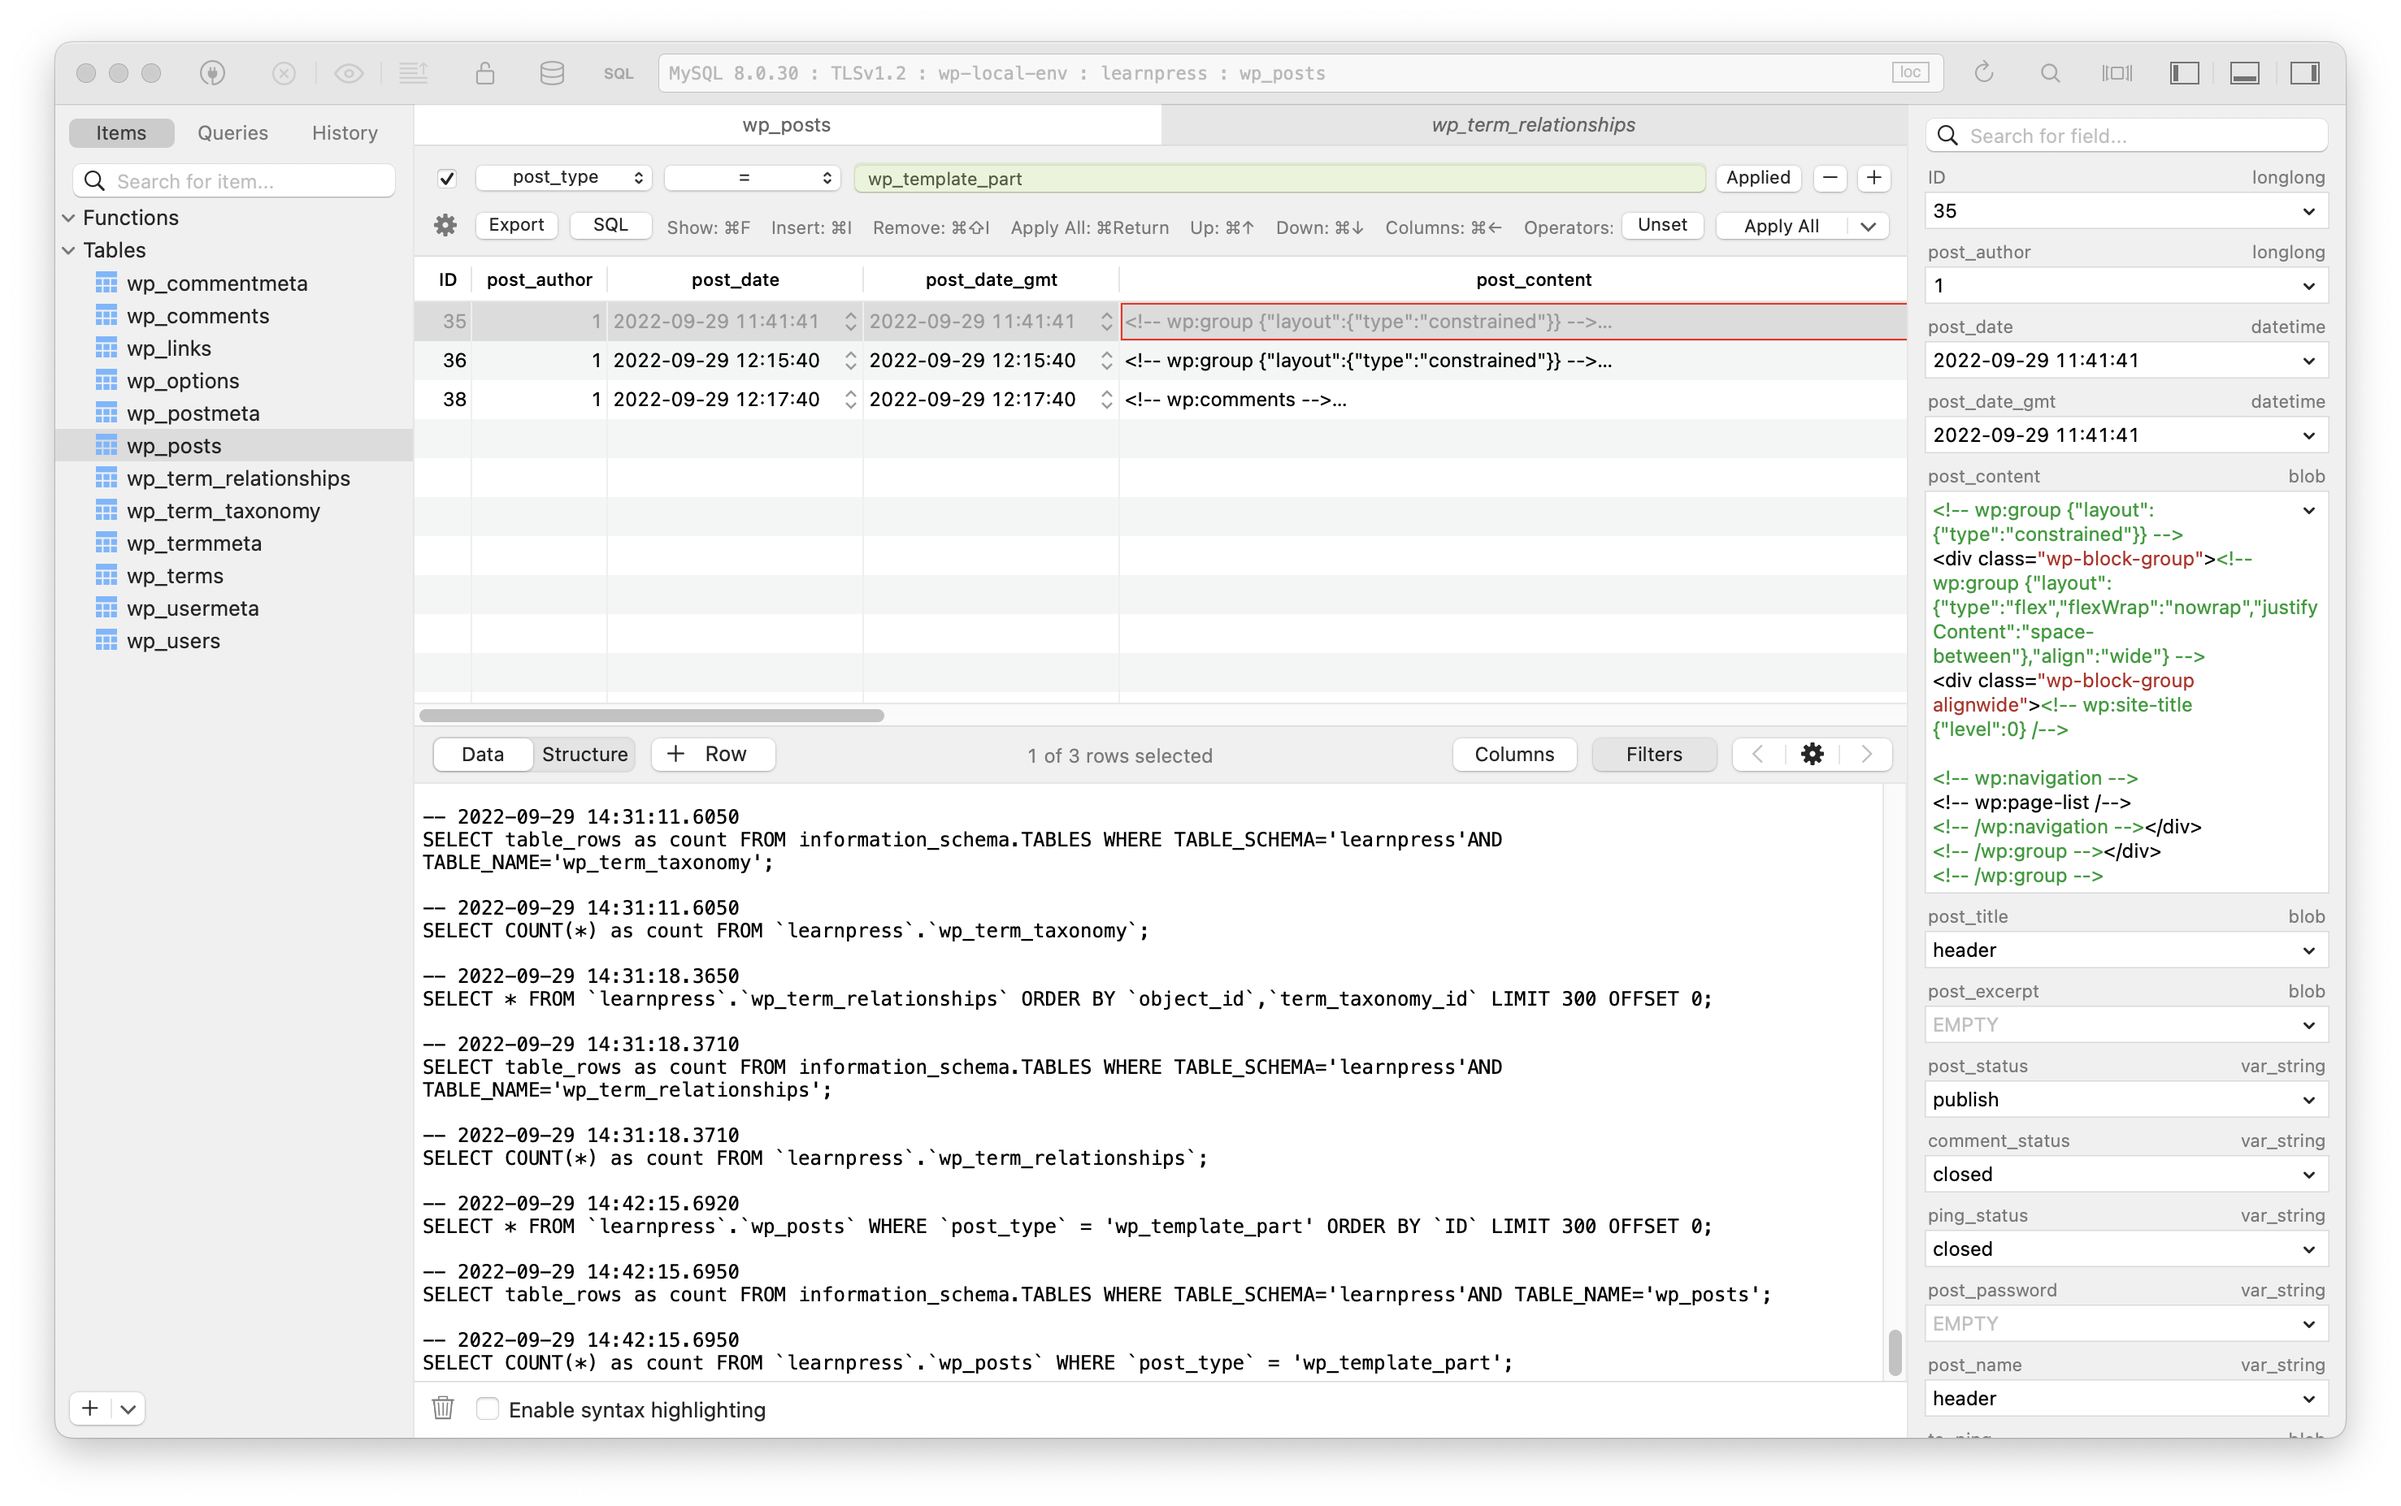
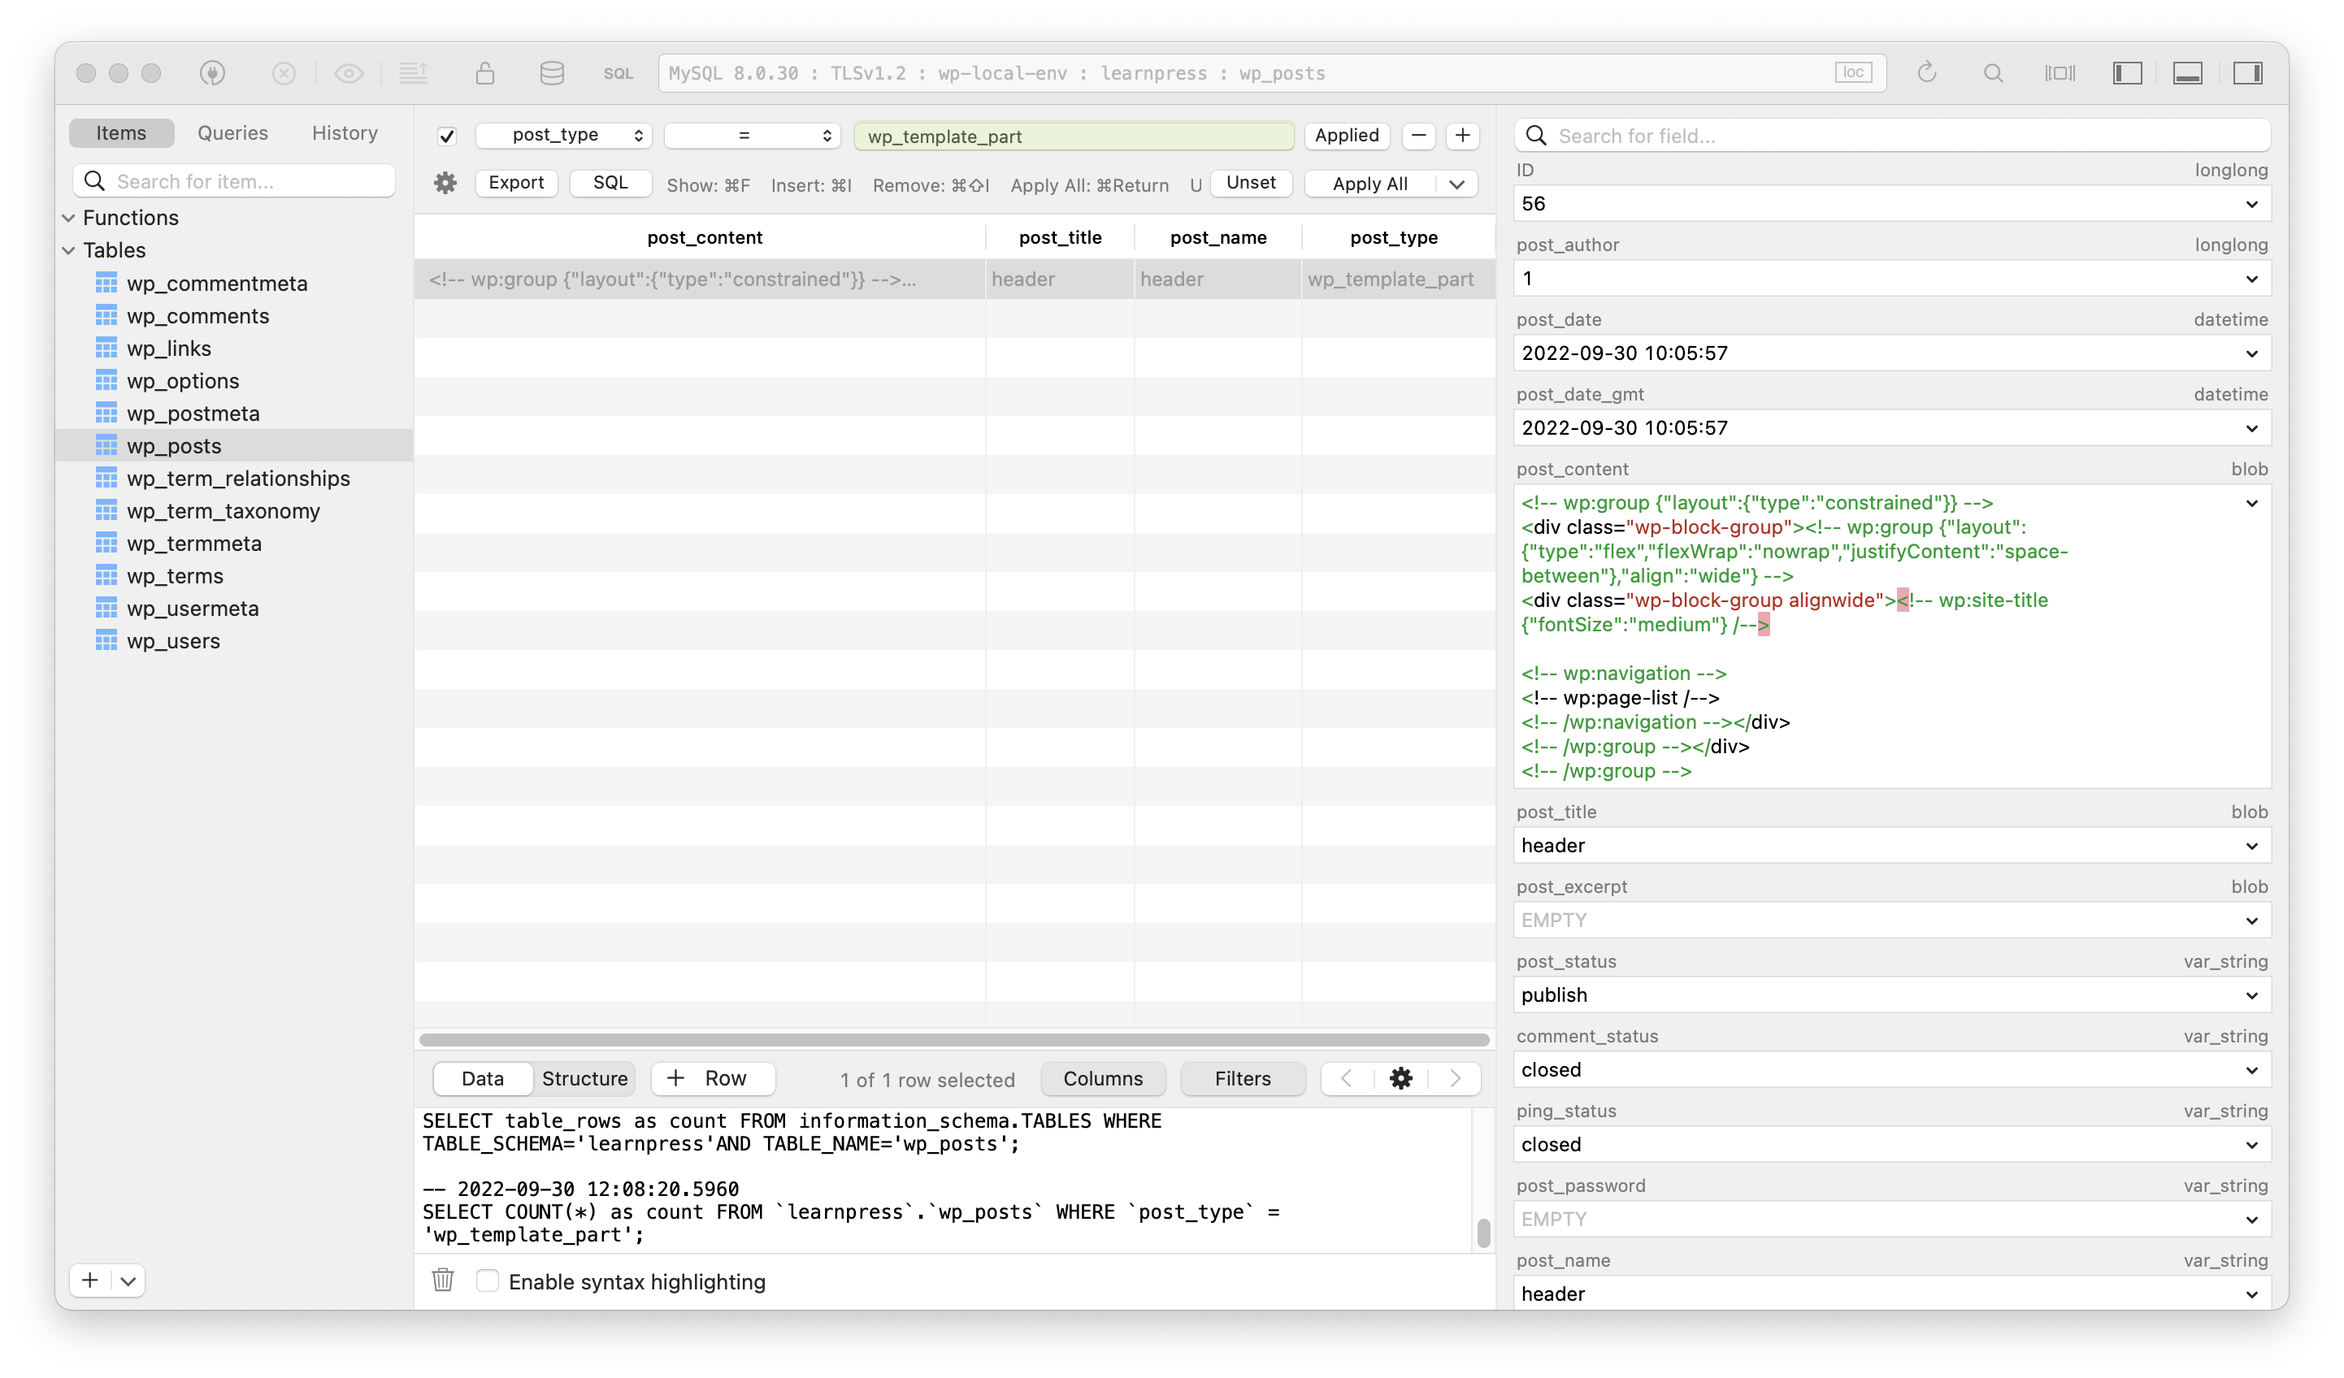
Module 3 updates

diff --git a/module-03/03-What-Happens-When-Theme-Exported.md b/module-03/03-What-Happens-When-Theme-Exported.md
@@ -1,0 +1,22 @@
+# Exporting a Theme
+
+Now that you understand how changes to Global Styles, templates and template parts are stored in the database, let's take a look at what happens behind the scenes, when you export the theme.
+
+## Site Editor Export
+
+When you export the theme from the Site Editor, a request is made to to the `wp-block-editor/v1/export` WP REST API endpoint, which runs the export. The main function that handles the export is [wp_generate_block_templates_export_file](https://developer.wordpress.org/reference/functions/wp_generate_block_templates_export_file/). This process performs the following actions:
+
+1. Checks it the current user has the `edit_theme_options` capability
+2. Creates a new Zip archive in memory, with a templates and template parts directory
+3. Adds a copy of all the files in the active themes root directory to the Zip archive
+4. Runs through all active theme templates and template parts, and creates the relevant file in the Zip archive
+   1. It first looks for a template/part in the database, and creates the file from the saved data
+   2. If it cannot find a template/part in the database, it will look for one in the active themes templates directory
+5. Generates the settings and styles JSON object, converts it to a theme.json file, and adds it to the Zip archive
+   1. It first gets the JSON object from the active themes theme.json file
+   2. Next it looks for any Global Styles stored in the database, and merges them with the JSON object
+6. Finally, it outputs the Zip archive to the browser, to be saved by the user.
+
+## Create Block Theme Export
+
+The Create Block Theme plugin uses the same core functionality to export the theme. The main difference is in how it exports or creates theme files, based on the option selected.

diff --git a/module-03/02-Saving-Templates-Template-Parts.md b/module-03/02-Saving-Templates-Template-Parts.md
@@ -22,7 +22,9 @@ Similar to Global Styles, templates and template parts are stored as a specific 
 
 ### Example
 
-Go ahead and make some changes to your theme's header template, and save it.
+Go ahead and make some changes to your theme's header template part, and save it.
+
+> **Do:** Select the Site Title in the header template part, and change the Typography size to Medium
 
 Once you've saved the changes, open the database in your favorite database management tool (e.g. [phpMyAdmin](https://www.phpmyadmin.net/), [TablePlus](https://tableplus.com/) etc).
 

diff --git a/module-03/01-Saving-Styles-Changes.md b/module-03/01-Saving-Styles-Changes.md
@@ -20,7 +20,7 @@ Below is a breakdown of the important fields and the data that is stored for cha
 Go ahead and make some changes to your theme's Global Styles in the Editor, and save them.
 
 > **Do:**
-> 1. Set the global Background colour to the Page pink preset
+> 1. Set the global Background colour to the Pale pink preset
 > 2. Set the global Text colour to the Black preset 
 > 3. Change the Content and Wide dimensions in the global Layout settings to 750px and 1200px respectively
 
